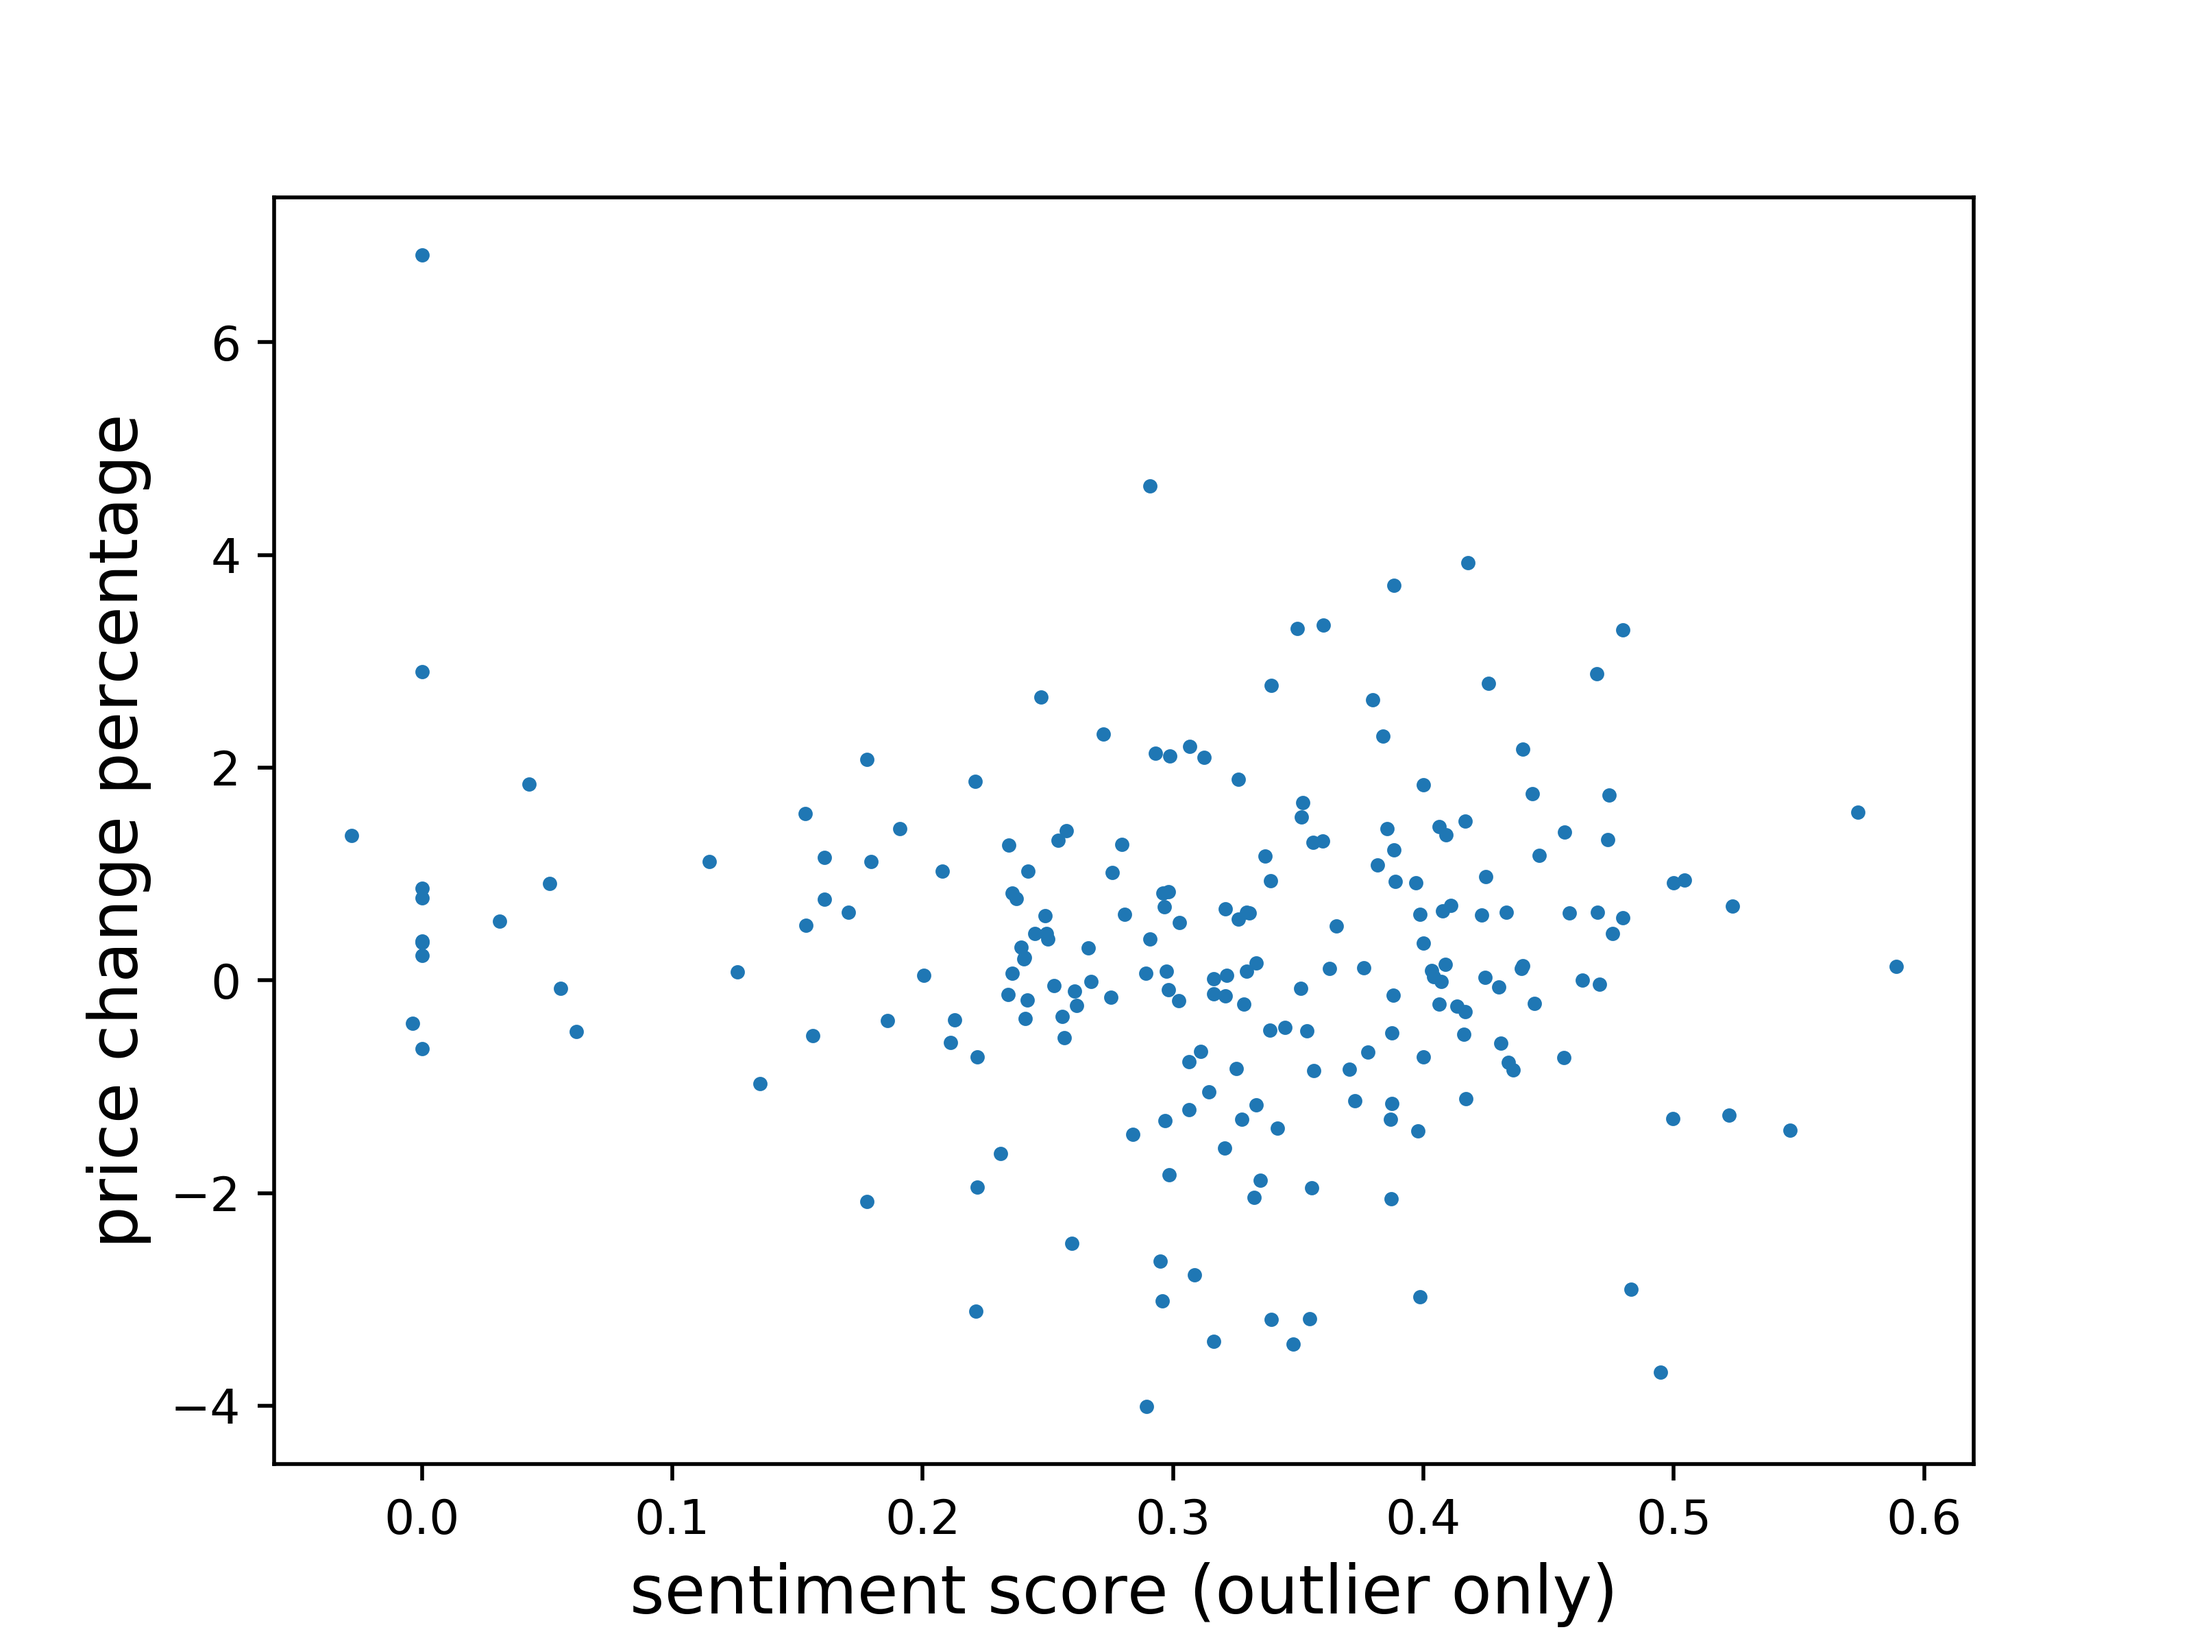
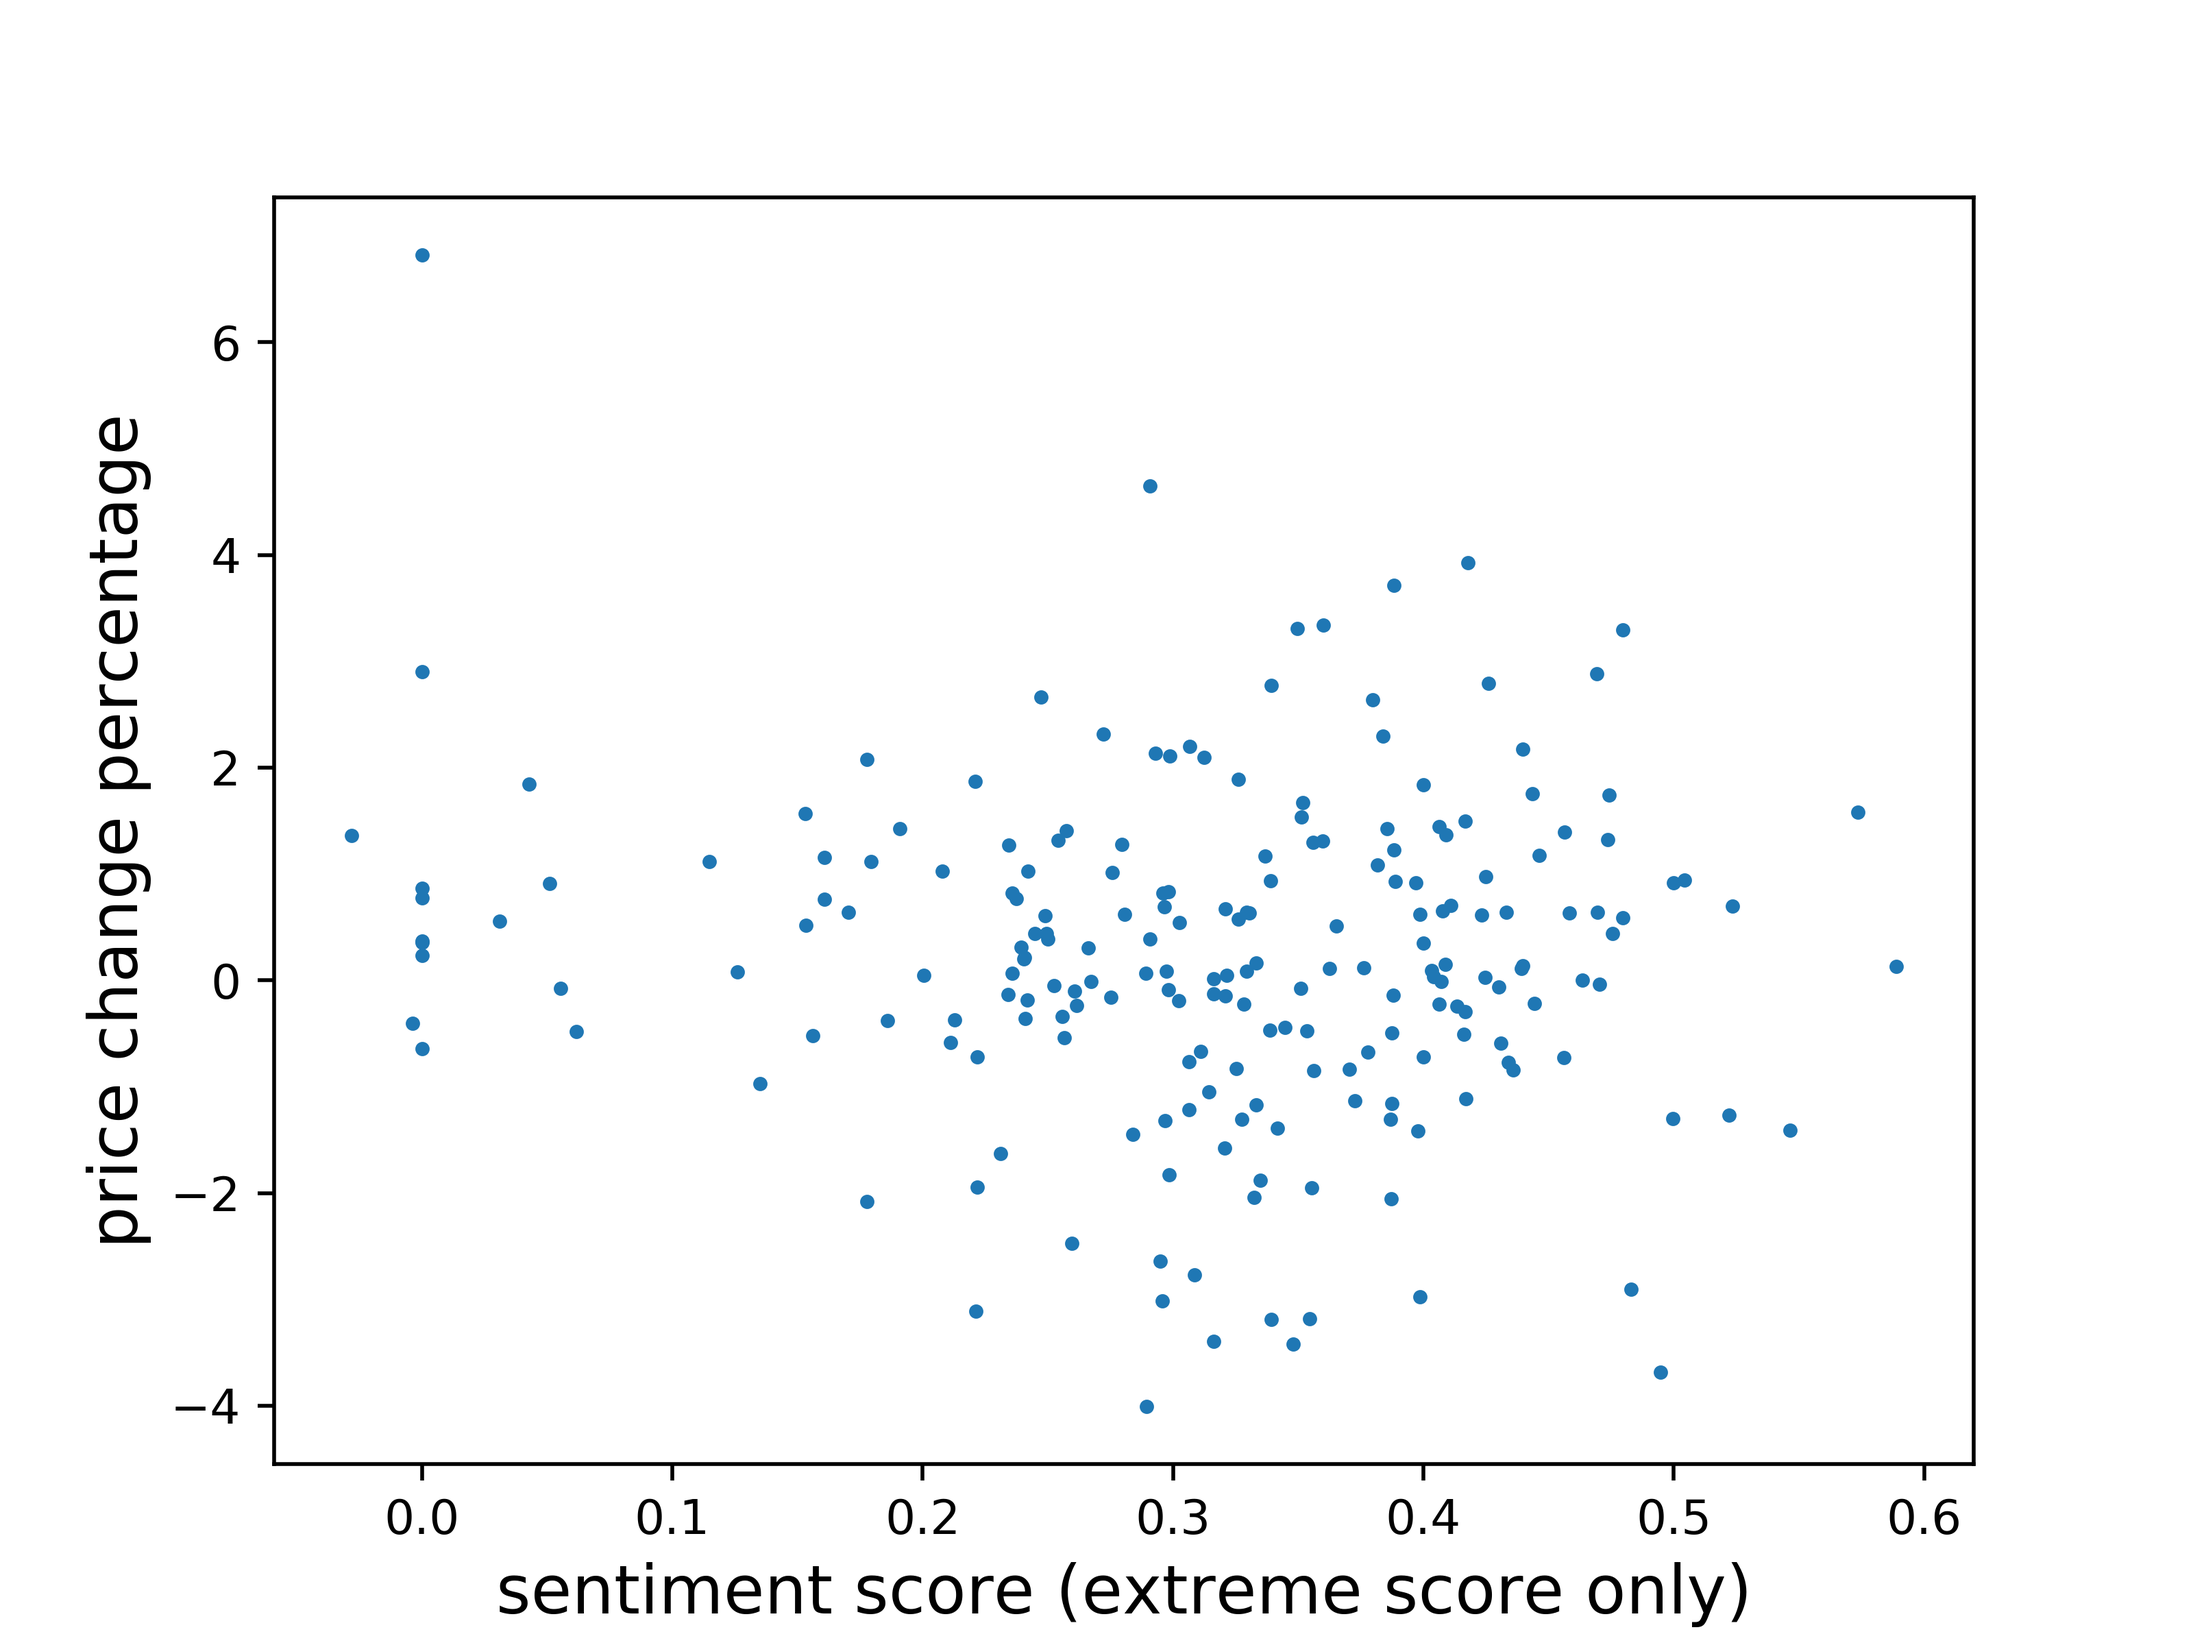
updated data init analysis code

Changed region(s): [[0.2188, 0.9375, 0.5625, 1.0], [0.5938, 0.9375, 0.7812, 1.0]]

diff --git a/data_initial_analysis/init_data_analysis.py b/data_initial_analysis/init_data_analysis.py
@@ -74,53 +74,54 @@ if __name__ == "__main__":
     companies = ["apple", "amazon", "facebook", "google", "microsoft", "netflix", "tesla", "uber"]
     companies = ["microsoft"]
 
-    # for i in range(len(companies)):
-    #     x, y = data_study(companies[i], client_address, "1_day_sentiment_score")
-    #     # x, y = data_study(companies[i], client_address, "1_day_overall_sentiment_score")
-    #     # x, y = data_study(companies[i], client_address, "1_day_bert_sentiment_score")
-    #     # x, y = data_study(companies[i], client_address, "1_day_overall_bert_sentiment_score")
-    #     array = np.asarray([x, y])
-    #     filepath = Path("./data/{}.csv".format(companies[i]))
-    #     np.savetxt(filepath, array, delimiter=",")
-    #     print("saving data for", companies[i], "finished")
+    for i in range(len(companies)):
+        x, y = data_study(companies[i], client_address, "1_day_sentiment_score")
+        # x, y = data_study(companies[i], client_address, "1_day_overall_sentiment_score")
+        # x, y = data_study(companies[i], client_address, "1_day_bert_sentiment_score")
+        # x, y = data_study(companies[i], client_address, "1_day_overall_bert_sentiment_score")
+        array = np.asarray([x, y])
+        filepath = Path("./data/{}.csv".format(companies[i]))
+        np.savetxt(filepath, array, delimiter=",")
+        print("saving data for", companies[i], "finished")
 
-    # # outlier plot
-    # fig, axs = plt.subplots(nrows=2, ncols=4, figsize=[20, 10])
-    # for i in range(len(companies)):
-    #     filepath = Path("./data/{}_outlier.csv".format(companies[i]))
-    #     result = np.loadtxt(filepath, delimiter=",")
-    #     axs[i//4, i%4].plot(result[0], result[1], '.', markersize=4)
-    #     axs[i//4, i%4].set_xlim([-0.1, 0.6])
-    #     axs[i//4, i%4].set_ylim([-10, 10])
-    #     axs[i//4, i%4].set_xticks(np.arange(-0.05, 0.26, 0.05))
-    #     axs[i//4, i%4].set_xticks(np.arange(-0.1, 0.61, 0.1))
-    #     axs[i//4, i%4].set_yticks(np.arange(-10, 11, 5))
-    #     axs[i//4, i%4].set_xlabel("{} past day sentiment (outlier)".format(companies[i]), fontsize=14)
-    # axs[0,0].set_ylabel("price change percentage", fontsize=14)
-    # axs[1,0].set_ylabel("price change percentage", fontsize=14)
+    # extreme score plot
+    fig, axs = plt.subplots(nrows=2, ncols=4, figsize=[20, 10])
+    for i in range(len(companies)):
+        filepath = Path("./data/{}_outlier.csv".format(companies[i]))
+        result = np.loadtxt(filepath, delimiter=",")
+        axs[i//4, i%4].plot(result[0], result[1], '.', markersize=4)
+        axs[i//4, i%4].set_xlim([-0.1, 0.6])
+        axs[i//4, i%4].set_ylim([-10, 10])
+        axs[i//4, i%4].set_xticks(np.arange(-0.05, 0.26, 0.05))
+        axs[i//4, i%4].set_xticks(np.arange(-0.1, 0.61, 0.1))
+        axs[i//4, i%4].set_yticks(np.arange(-10, 11, 5))
+        axs[i//4, i%4].set_xlabel("{} past day sentiment (outlier)".format(companies[i]), fontsize=14)
+    axs[0,0].set_ylabel("price change percentage", fontsize=14)
+    axs[1,0].set_ylabel("price change percentage", fontsize=14)
 
-    # plt.savefig(Path("scatter_all_outlier.png"), dpi=500)
+    plt.savefig(Path("scatter_all_outlier.png"), dpi=500)
 
-    # # normal plot
-    # fig, axs = plt.subplots(nrows=2, ncols=4, figsize=[20, 10])
-    # for i in range(len(companies)):
-    #     filepath = Path("./data/{}.csv".format(companies[i]))
-    #     filepath = Path("./data/{}.csv".format(companies[i]))
-    #     result = np.loadtxt(filepath, delimiter=",")
-    #     axs[i//4, i%4].plot(result[0], result[1], '.', markersize=4)
-    #     axs[i//4, i%4].set_xlim([-0.05, 0.25])
-    #     axs[i//4, i%4].set_ylim([-10, 10])
-    #     axs[i//4, i%4].set_xticks(np.arange(-0.05, 0.26, 0.05))
-    #     axs[i//4, i%4].set_yticks(np.arange(-10, 11, 5))
-    #     axs[i//4, i%4].set_xlabel("{} past day sentiment".format(companies[i]), fontsize=14)
-    # axs[0,0].set_ylabel("price change percentage", fontsize=14)
-    # axs[1,0].set_ylabel("price change percentage", fontsize=14)
+    # normal plot
+    fig, axs = plt.subplots(nrows=2, ncols=4, figsize=[20, 10])
+    for i in range(len(companies)):
+        filepath = Path("./data/{}.csv".format(companies[i]))
+        filepath = Path("./data/{}.csv".format(companies[i]))
+        result = np.loadtxt(filepath, delimiter=",")
+        axs[i//4, i%4].plot(result[0], result[1], '.', markersize=4)
+        axs[i//4, i%4].set_xlim([-0.05, 0.25])
+        axs[i//4, i%4].set_ylim([-10, 10])
+        axs[i//4, i%4].set_xticks(np.arange(-0.05, 0.26, 0.05))
+        axs[i//4, i%4].set_yticks(np.arange(-10, 11, 5))
+        axs[i//4, i%4].set_xlabel("{} past day sentiment".format(companies[i]), fontsize=14)
+    axs[0,0].set_ylabel("price change percentage", fontsize=14)
+    axs[1,0].set_ylabel("price change percentage", fontsize=14)
 
-    # plt.savefig(Path("scatter_all.png"), dpi=500)
+    plt.savefig(Path("scatter_all.png"), dpi=500)
 
+    # single company plot
     result = np.loadtxt("./data/microsoft_outlier.csv", delimiter=",")
     plt.plot(result[0], result[1], '.', markersize=4)
     plt.rcParams["figure.figsize"]= (3,2)
-    plt.xlabel("sentiment score (outlier only)",  fontsize=14)
+    plt.xlabel("sentiment score (extreme score only)",  fontsize=14)
     plt.ylabel("price change percentage",  fontsize=14)
     plt.savefig(Path("microsoft_init_outlier.png"), dpi=500)
